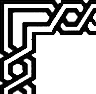
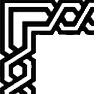
984651

Changed region(s): [[0.0, 0.0, 1.0, 1.0]]

diff --git a/lesson5/DIV_FRAME.html b/lesson5/DIV_FRAME.html
@@ -5,111 +5,105 @@
     <title>DIV_FRAME</title>
 </head>
 <body>
-    <div style="background: url(ramka/lef.png) repeat-y;">
-        <div style="background: url(ramka/rigt.png) repeat-y right;">
-            <div style="background: url(ramka/top.png) repeat-x;">
-                <div style="background: url(ramka/bottom.png) repeat-x bottom;">
-                    <div style="background: url(ramka/lt.png) no-repeat;">
-                        <div style="background: url(ramka/rt.png) no-repeat right top;">
-                            <div style="background: url(ramka/lb.png) no-repeat left bottom;">
-                                <div style="background: url(ramka/rb.png) no-repeat right bottom;">
-                                    <div style="padding: 50px;">
-                                            <br>
-                                            <a name="начало текста"></a>
-                                            <h1 style="text-align: center;">
-                                                Биография Александра Сергеевича Пушкина
-                                            </h1>
-                                            <div>
-                                                <img src="../lesson3/img/AlexSP.jpg" alt="Alex Pushkin" title="Александр Сергеевич Пушкина" width="192" height="224"> 
-                                                <a href="#стих" style="text-decoration: none; color: brown; vertical-align: top;" title="Перейти к стиху">Я вас любил: любовь еще, быть может…</a>
-                                            </div>
-                                            <p style=" font-family: 'Tenor Sans', sans-serif; text-indent: 40px;"> Александр Сергеевич Пушкин (1799-1837 гг.) – великий русский поэт, прозаик, драматург. Автор бессмертных произведений в стихах и прозе: романов “Евгений Онегин”, “Дубровский”, известных поэм “Руслан и Людмила”, “Кавказский пленник”, повести “Пиковая дама” и многих других, а также сказок для детей.</p>
-                                            <h3 style="text-align: center;">
-                                                Ранние годы
-                                            </h3>   
-                                            <p style="text-indent: 40px;">
-                                                Александр Сергеевич Пушкин родился 6 июня (по старому стилю 26 мая) 1799 года в Москве в семье нетитулованного дворянского рода. Прадедом поэта по матери был африканец Абрам Петрович Ганнибал, являвшийся воспитанником и слугой царя Петра I.
-                                            </p>
-                                            <h3 style="text-align: center;">
-                                                Образование и начало творческого пути
-                                            </h3>   
-                                            <p style="text-indent: 40px;">
-                                                В 1811 году Пушкин учился в Царскосельском Лицее. В биографии Пушкина важно выделить, что впервые его стихи появляются в печати в 1814 году, в журнале «Вестник Европы», где публикуется его стихотворение «К другу-стихотворцу». В этот же период поэта принимают в литературное общество «Арзамас».<br>
-                                                Вольтер и Эварист Парни были любимыми авторами юного Пушкина.<br>
-                                                На дальнейшее творчество молодого Пушкина огромное влияние оказали труды таких классиков русской литературы, как Батюшков, Жуковский, Фонвизин и Радищев.<br>
-                                                Пушкин оканчивает лицей в 1817 году и выпускается в чине коллежского секретаря 12-го класса, после чего его определяют в Коллегию иностранных дел.<br>
-                                            </p>
-                                            <h3 style="text-align: center;">
-                                                Творчество поэта
-                                            </h3>   
-                                            <p style="text-indent: 40px;">
-                                                В 1819 году Пушкина принимают членом литературно-театрального сообщества «Зелёная лампа». В этот же период он активно работает над поэмой «Руслан и Людмила» (1820).<br>
-                                                В 1821 году Пушкин пишет поэму «Кавказский пленник», которая делает его одним из величайших литераторов среди современников. Через год начинается работа над «Евгением Онегиным» (1823-1832).<br>
-                                                В 1832 году поэт задумывает создать исторический роман о временах пугачевщины, для чего изучает все доступные материалы (многие из них засекречены на то время), объезжает многие места, где проходило восстание. После всех этих путешествий осенью 1833 года пишет «Историю Пугачёва» и «Песни западных славян», а также поэмы «Анджело» и «Медный всадник», начинает работу над повестью «Пиковая дама».
-                                                В это же время Пушкин начинает работу над романом «Дубровский», в котором главному герою приходится стать разбойником.<br>
-                                            </p>
-                                            <h3 style="text-align: center;">
-                                                Ссылки
-                                            </h3>   
-                                            <p style="text-indent: 40px;">
-                                                Политическая лирика Пушкина 1817—1820 гг. («Вольность», «К Чаадаеву», «Деревня») вызвали гнев Александра I, и Александр Сергеевич мог быть сослан в Сибирь. Только благодаря стараниям и влиянию Карамзина, Жуковского и Крылова ссылки в Сибирь удалось избежать. Так, в мае 1820 г. Пушкин под видом служебного перемещения выслан на юг России.<br>
-                                                Во время южной ссылки Пушкин очень увлекся творчеством Байрона.<br>
-                                                В одном из своих писем Пушкин иронически отозвался о религии. Письмо перехватили и донесли Александру I. Результатом стало увольнение Пушкина со службы и его вторая ссылка, в село Михайловское (1824—1826).
-                                            </p>
-                                            <h3 style="text-align: center;">
-                                                Личная жизнь
-                                            </h3>   
-                                            <p style="text-indent: 40px;">
-                                                В 1830 году Пушкин сватается к Наталье Гончаровой, а 18 февраля (2 марта по старому стилю) 1831 года Пушкин и Гончарова венчаются в Москве. Весной молодожены переезжают в Царское Село, где снимают дачу. В 1836 году в семье было уже четыре ребенка.
-                                            </p>
-                                            <h3 style="text-align: center;">
-                                                Последние годы жизни
-                                            </h3>   
-                                            <p style="text-indent: 40px;">
-                                                Важно отметить такой момент в биографии Пушкина:  после повышения в чин камер-юнкера, Александр Пушкин принимает решение покинуть службу и подает в отставку. Положение поэта выглядит и вовсе бедственно, поскольку многие произведения Пушкина не допускаются к печати из-за цензуры (например, поэма «Медный всадник»).<br>
-                                                В 1834 году Пушкин дописывает повесть «Пиковая дама», которую немедленно отсылает в журнал «Библиотека для чтения». За повесть он получает высокий гонорар, но решить финансовые вопросы так и не удается.<br>
-                                                В 1836 году Александр Сергеевич Пушкин решает издавать журнал «Современник». Однако популярностью у публики журнал не пользуется. В четвёртом томе этого журнала был впервые напечатан исторический роман «Капитанская дочка».<br>
-                                                В 1837 году между Александром Сергеевичем Пушкиным и Жоржем Дантесом возник конфликт. Пушкин вызывает Дантеса на дуэль, и в результате получает смертельное ранение в живот.<br>
-                                                Император Николай I, зная о тяжелом состоянии поэта, обещает обеспечить достатком семью и выплатить все долги. Впоследствии монарх выполнил все обещания.<br>
-                                                Умер поэт 29 января (10 февраля) 1837 года.
-                                            </p>
-                                            <a name="стих"></a>
-                                            <h3>
-                                                Стихотворение Александра Сергеевича Пушкина:</h3>
-                                            <h2 style="text-align: center;">
-                                                Я вас любил: любовь еще, быть может…
-                                            </h2>
-                                            <div style="font-size: 21px; text-align: center; width: 460px; box-sizing: border-box; padding: 10px; margin-left: auto; margin-right: auto;">
-                                                <p style="text-align: left; padding-left: 40px;">
-                                                    Я вас любил: любовь еще, быть может,<br>
-                                                    В душе моей угасла не совсем;<br>
-                                                    Но пусть она вас больше не тревожит;<br>
-                                                    Я не хочу печалить вас ничем.
-                                                </p>
-                                                <p style="text-align: left; padding-left: 40px;">
-                                                    Я вас любил безмолвно, безнадежно,<br>
-                                                    То робостью, то ревностью томим;<br>
-                                                    Я вас любил так искренно, так нежно,<br>
-                                                    Как дай вам Бог любимой быть другим.
-                                                </p>
-                                            </div>
-                                            <br>
-                                            <br>
-                                            <a href="#начало текста" title="Подняться вверх страницы" style="text-decoration: none; color: brown;">
-                                                Начало текста
-                                            </a>
-                                            <br>
-                                            <br>
-                                            <br>
-                                    </div>
-                                </div>
-                            </div>
-                        </div>
-                    </div>
-                </div>
+    <div style="background: url(ramka/lt.png) no-repeat,
+                            url(ramka/rt.png) no-repeat right top,
+                            url(ramka/lb.png) no-repeat left bottom,
+                            url(ramka/rb.png) no-repeat right bottom,
+                            url(ramka/lef.png) repeat-y,
+                            url(ramka/rigt.png) repeat-y right, 
+                            url(ramka/top.png) repeat-x,
+                            url(ramka/bottom.png) repeat-x bottom,
+                            bisque;">
+        <div style="padding: 50px;">
+            <br>
+            <a name="начало текста"></a>
+            <h1 style="text-align: center;">
+                Биография Александра Сергеевича Пушкина
+            </h1>
+            <div>
+                <img src="../lesson3/img/AlexSP.jpg" alt="Alex Pushkin" title="Александр Сергеевич Пушкина" width="192" height="224"> 
+                <a href="#стих" style="text-decoration: none; color: brown; vertical-align: top;" title="Перейти к стиху">Я вас любил: любовь еще, быть может…</a>
             </div>
+            <p style=" font-family: 'Tenor Sans', sans-serif; text-indent: 40px;"> Александр Сергеевич Пушкин (1799-1837 гг.) – великий русский поэт, прозаик, драматург. Автор бессмертных произведений в стихах и прозе: романов “Евгений Онегин”, “Дубровский”, известных поэм “Руслан и Людмила”, “Кавказский пленник”, повести “Пиковая дама” и многих других, а также сказок для детей.</p>
+            <h3 style="text-align: center;">
+                Ранние годы
+            </h3>   
+            <p style="text-indent: 40px;">
+                 Александр Сергеевич Пушкин родился 6 июня (по старому стилю 26 мая) 1799 года в Москве в семье нетитулованного дворянского рода. Прадедом поэта по матери был африканец Абрам Петрович Ганнибал, являвшийся воспитанником и слугой царя Петра I.
+            </p>
+            <h3 style="text-align: center;">
+                Образование и начало творческого пути
+            </h3>   
+            <p style="text-indent: 40px;">
+                В 1811 году Пушкин учился в Царскосельском Лицее. В биографии Пушкина важно выделить, что впервые его стихи появляются в печати в 1814 году, в журнале «Вестник Европы», где публикуется его стихотворение «К другу-стихотворцу». В этот же период поэта принимают в литературное общество «Арзамас».<br>
+                Вольтер и Эварист Парни были любимыми авторами юного Пушкина.<br>
+                На дальнейшее творчество молодого Пушкина огромное влияние оказали труды таких классиков русской литературы, как Батюшков, Жуковский, Фонвизин и Радищев.<br>
+                Пушкин оканчивает лицей в 1817 году и выпускается в чине коллежского секретаря 12-го класса, после чего его определяют в Коллегию иностранных дел.<br>
+            </p>
+            <h3 style="text-align: center;">
+            Творчество поэта
+            </h3>   
+            <p style="text-indent: 40px;">
+                В 1819 году Пушкина принимают членом литературно-театрального сообщества «Зелёная лампа». В этот же период он активно работает над поэмой «Руслан и Людмила» (1820).<br>
+                В 1821 году Пушкин пишет поэму «Кавказский пленник», которая делает его одним из величайших литераторов среди современников. Через год начинается работа над «Евгением Онегиным» (1823-1832).<br>
+                В 1832 году поэт задумывает создать исторический роман о временах пугачевщины, для чего изучает все доступные материалы (многие из них засекречены на то время), объезжает многие места, где проходило восстание. После всех этих путешествий осенью 1833 года пишет «Историю Пугачёва» и «Песни западных славян», а также поэмы «Анджело» и «Медный всадник», начинает работу над повестью «Пиковая дама».
+                В это же время Пушкин начинает работу над романом «Дубровский», в котором главному герою приходится стать разбойником.<br>
+            </p>
+            <h3 style="text-align: center;">
+                Ссылки
+            </h3>   
+            <p style="text-indent: 40px;">
+                Политическая лирика Пушкина 1817—1820 гг. («Вольность», «К Чаадаеву», «Деревня») вызвали гнев Александра I, и Александр Сергеевич мог быть сослан в Сибирь. Только благодаря стараниям и влиянию Карамзина, Жуковского и Крылова ссылки в Сибирь удалось избежать. Так, в мае 1820 г. Пушкин под видом служебного перемещения выслан на юг России.<br>
+                Во время южной ссылки Пушкин очень увлекся творчеством Байрона.<br>
+                В одном из своих писем Пушкин иронически отозвался о религии. Письмо перехватили и донесли Александру I. Результатом стало увольнение Пушкина со службы и его вторая ссылка, в село Михайловское (1824—1826).
+            </p>
+            <h3 style="text-align: center;">
+                Личная жизнь
+            </h3>   
+            <p style="text-indent: 40px;">
+                В 1830 году Пушкин сватается к Наталье Гончаровой, а 18 февраля (2 марта по старому стилю) 1831 года Пушкин и Гончарова венчаются в Москве. Весной молодожены переезжают в Царское Село, где снимают дачу. В 1836 году в семье было уже четыре ребенка.
+            </p>
+            <h3 style="text-align: center;">
+                Последние годы жизни
+            </h3>   
+            <p style="text-indent: 40px;">
+                Важно отметить такой момент в биографии Пушкина:  после повышения в чин камер-юнкера, Александр Пушкин принимает решение покинуть службу и подает в отставку. Положение поэта выглядит и вовсе бедственно, поскольку многие произведения Пушкина не допускаются к печати из-за цензуры (например, поэма «Медный всадник»).<br>
+                В 1834 году Пушкин дописывает повесть «Пиковая дама», которую немедленно отсылает в журнал «Библиотека для чтения». За повесть он получает высокий гонорар, но решить финансовые вопросы так и не удается.<br>
+                В 1836 году Александр Сергеевич Пушкин решает издавать журнал «Современник». Однако популярностью у публики журнал не пользуется. В четвёртом томе этого журнала был впервые напечатан исторический роман «Капитанская дочка».<br>
+                В 1837 году между Александром Сергеевичем Пушкиным и Жоржем Дантесом возник конфликт. Пушкин вызывает Дантеса на дуэль, и в результате получает смертельное ранение в живот.<br>
+                Император Николай I, зная о тяжелом состоянии поэта, обещает обеспечить достатком семью и выплатить все долги. Впоследствии монарх выполнил все обещания.<br>
+                Умер поэт 29 января (10 февраля) 1837 года.
+            </p>
+            <a name="стих"></a>
+            <h3>
+                Стихотворение Александра Сергеевича Пушкина:
+            </h3>
+            <h2 style="text-align: center;">
+                Я вас любил: любовь еще, быть может…
+            </h2>
+            <div style="font-size: 21px; text-align: center; width: 460px; box-sizing: border-box; padding: 10px; margin-left: auto; margin-right: auto;">
+                <p style="text-align: left; padding-left: 40px;">
+                    Я вас любил: любовь еще, быть может,<br>
+                    В душе моей угасла не совсем;<br>
+                    Но пусть она вас больше не тревожит;<br>
+                    Я не хочу печалить вас ничем.
+                </p>
+                <p style="text-align: left; padding-left: 40px;">
+                    Я вас любил безмолвно, безнадежно,<br>
+                    То робостью, то ревностью томим;<br>
+                    Я вас любил так искренно, так нежно,<br>
+                    Как дай вам Бог любимой быть другим.
+                </p>
+            </div>
+            <br>
+            <br>
+            <a href="#начало текста" title="Подняться вверх страницы" style="text-decoration: none; color: brown;">
+                Начало текста
+            </a>
+            <br>
+            <br>
+            <br>
         </div>
     </div>
-    
 </body>
 </html>
